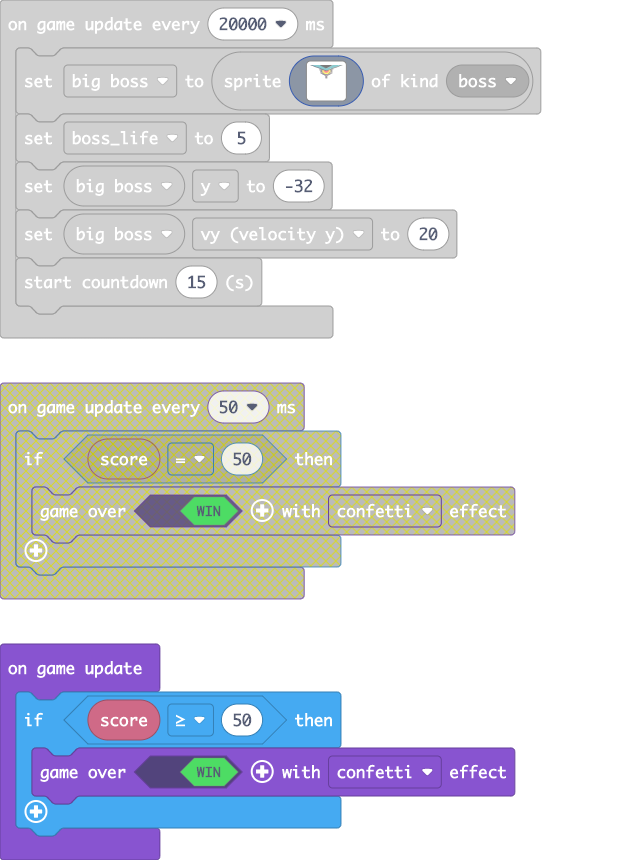
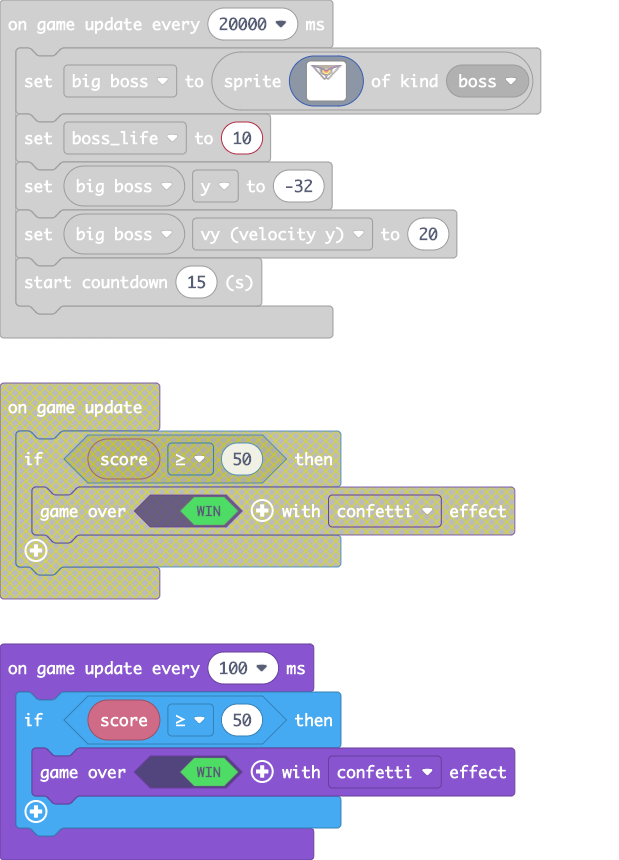
Update main.blocks, main.ts

diff --git a/main.ts b/main.ts
@@ -209,11 +209,6 @@ game.onUpdate(function () {
         big_boss.destroy(effects.rings, 500)
     }
 })
-game.onUpdate(function () {
-    if (info.score() >= 50) {
-        game.over(true, effects.confetti)
-    }
-})
 game.onUpdateInterval(1000, function () {
     astroid = sprites.create(img`
         . . . . . . . . . c c 8 . . . . 
@@ -237,38 +232,43 @@ game.onUpdateInterval(1000, function () {
     astroid.x = randint(0, scene.screenWidth())
     astroid.ay = 60
 })
+game.onUpdateInterval(100, function () {
+    if (info.score() >= 50) {
+        game.over(true, effects.confetti)
+    }
+})
 game.onUpdateInterval(20000, function () {
     big_boss = sprites.create(img`
-        .ff86666666666666666fffffffffffffffffffffffd66666666666666661ff.
-        ...fff866666666666666fffffffffffffffffffffd666666666666661fff...
-        ......ff866666666666666fffffffffffffffffd666666666666661ff......
-        ........fff86666666666666fffffffffffffd66666666666661fff........
-        ...........fff8666666666666fffffffffd6666666666661fff...........
-        ..............fff866666666666fffffd666666666661fff..............
-        .................ff866666666666fd666666666661ff.................
-        ...................fff86666666666666666661fff...................
-        ...................fcbfff86666666666661fffbdf...................
-        ...................fcbbf5ff8666666661ff5fbdf....................
-        ...................fcbbf554fff8661fff455fbdf....................
-        ....................fcbf554422ffff224455fbdf....................
-        ....................fcbf5544222222224455fbdf....................
-        ....................fcbf5554422222244555fdf.....................
-        .....................fcbf55544222244555fbdf.....................
-        .....................fcbf55554444445555fbdf.....................
-        .....................fcbbf555555555555fbbdf.....................
-        ......................ffcbff55555555ffbdff......................
-        ........................ffcbffffffffbdff........................
-        ..........................ffcbbbbbbdff..........................
-        ............................ffcbbdff............................
-        ..............................fcdf..............................
-        ..............................fcdf..............................
-        ..............................fcdf..............................
-        ..............................fcdf..............................
-        ..............................fcdf..............................
-        ...............................ff...............................
-        ................................................................
-        ................................................................
-        ................................................................
+        .ff8ccccccccccccccccccccccccccccccccccccccccccccccccccccccaaaff.
+        ...fff8ccccc5c5c5c5c5c5c5c5c5c5c5c5c5c5c5c5c5c5c5c5cccccaafff...
+        ...fcbff8ccccccccccccccccccccccccccccccccccccccccccccaaaffbdf...
+        ....fcbbfff8cccccc5c5c5c5c5c5c5c5c5c5c5c5c5c5cccccaaafffbbdf....
+        .....fcbf..fff8ccccccccccccccccccccccccccccccccaaafff..fbdf.....
+        ......fcbf....fff8cccccc5c5c5c5c5c5c5c5ccccccaafff....fbdf......
+        .......fcbf......ff8ccccccccccccccccccccccaaaff......fbdf.......
+        ........fcbf.......fff8cccccc555555ccccaaafff.......fbdf........
+        .........fcbf......fcbfff8cccc5555cccaafffbdf......fbdf.........
+        .........fcbf......fcbbf5ff8ccccccaaaff5fbdf.......fbdf.........
+        ..........fcbf.....fcbbf554fff8caafff455fbdf......fbdf..........
+        ...........fcbf.....fcbf554422ffff224455fbdf.....fbdf...........
+        ............fcbf....fcbf5544222222224455fbdf....fbdf............
+        .............fcbf...fcbf5554422222244555fdf....fbdf.............
+        ..............fcbf...fcbf55544222244555fbdf...fbdf..............
+        ...............fcbf..fcbf55554444445555fbdf..fbdf...............
+        ................fcbf.fcbbf555555555555fbbdf.fbdf................
+        .................fcf..ffcbff55555555ffbdff..fdf.................
+        ..................fcf...ffcbffffffffbdff...fdf..................
+        ...................fcf....ffcbbbbbbdff....fdf...................
+        ....................fcf.....ffcbbdff.....fdf....................
+        .....................fcf......fcdf......fbf.....................
+        .....................fcbf.....fcdf.....fbdf.....................
+        ......................fcbf....fcdf....fbdf......................
+        .......................fcbf...fcdf...fbdf.......................
+        ........................fcf...fcdf...fdf........................
+        .........................fcf.fbffbf.fdf.........................
+        ..........................fcfbf..fbfdf..........................
+        ...........................fcf....fbf...........................
+        ............................f......f............................
         ................................................................
         ................................................................
         ................................................................
@@ -304,7 +304,7 @@ game.onUpdateInterval(20000, function () {
         ................................................................
         ................................................................
         `, SpriteKind.boss)
-    boss_life = 5
+    boss_life = 10
     big_boss.y = -32
     big_boss.vy = 20
     info.startCountdown(15)
